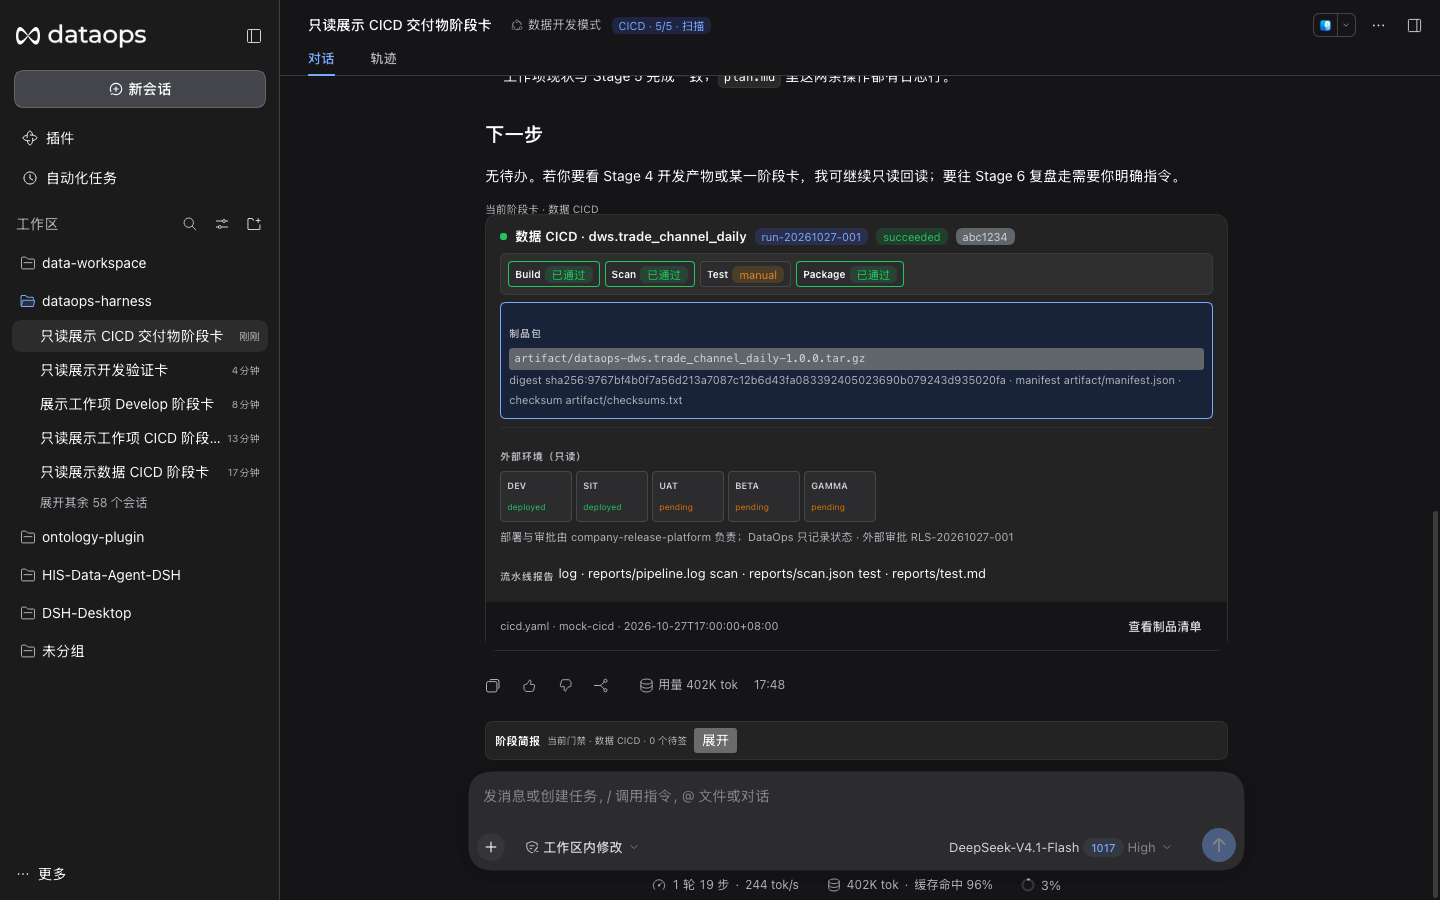
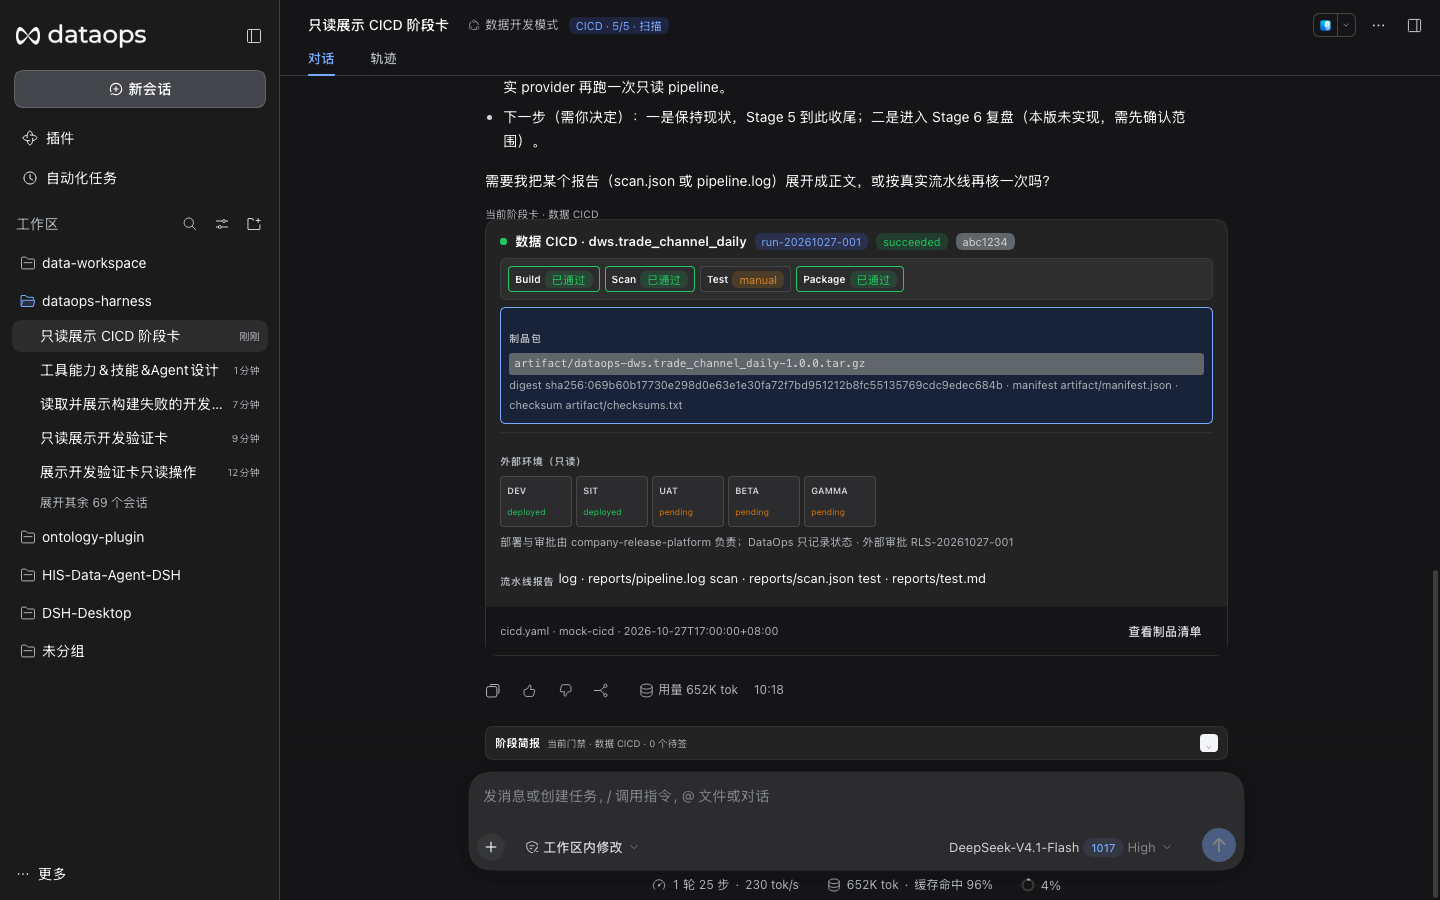
style: replace stage brief expand button with integrated chevron

diff --git a/packages/dataops-client/src/cards.js b/packages/dataops-client/src/cards.js
@@ -91,9 +91,13 @@ export function createDataopsCards(React) {
     '.do-current-card-body .do-card{border:0;border-radius:0;margin:0}',
     '.do-current-card-foot{padding:5px 11px;border-top:1px solid var(--dsw-alias-border-l1,rgba(0,0,0,.06));font-size:9.5px;color:var(--dsw-alias-label-tertiary,#81858c);background:var(--dsw-alias-bg-l2,#f7f8fa);flex:none}',
     '.do-stagebar{width:min(100%,var(--dsh-chat-content-width,920px));margin:6px auto;padding:6px 9px;border:1px solid var(--dsw-alias-border-l1,rgba(0,0,0,.08));border-radius:10px;background:var(--dsw-alias-bg-layer-1,#fff);box-sizing:border-box}',
-    '.do-stagebar-head{display:flex;align-items:center;gap:7px;min-height:18px}',
-    '.do-stagebar-title{font-size:11px;font-weight:600;color:var(--dsw-alias-label-primary,#0f1115)}',
-    '.do-stagebar-hint{font-size:9.5px;color:var(--dsw-alias-label-tertiary,#8b93a2)}',
+    '.do-stagebar-head{display:flex;align-items:center;gap:7px;min-height:20px;width:100%;border:0;background:transparent;padding:0;font:inherit;text-align:left;color:inherit;cursor:pointer}',
+    '.do-stagebar-head:hover .do-stagebar-title{color:var(--dsw-alias-state-business-primary,#4176e6)}',
+    '.do-stagebar-title{font-size:11px;font-weight:600;color:var(--dsw-alias-label-primary,#0f1115);flex:none}',
+    '.do-stagebar-hint{font-size:9.5px;color:var(--dsw-alias-label-tertiary,#8b93a2);flex:1;min-width:0;overflow:hidden;text-overflow:ellipsis;white-space:nowrap}',
+    '.do-stagebar-caret{display:inline-flex;align-items:center;justify-content:center;width:18px;height:18px;flex:none;border-radius:5px;background:var(--dsw-alias-bg-l2,#f4f5f7);color:var(--dsw-alias-label-tertiary,#81858c);font-size:11px;line-height:1;transition:transform .15s ease,background .15s ease}',
+    '.do-stagebar-head:hover .do-stagebar-caret{background:var(--dsw-alias-brand-primary-bg,rgba(77,107,254,.08));color:var(--dsw-alias-state-business-primary,#4176e6)}',
+    '.do-stagebar-caret[data-expanded="true"]{transform:rotate(180deg)}',
     '.do-stagebar-view{margin-left:auto;border:1px solid var(--dsw-alias-border-l2,rgba(0,0,0,.14));border-radius:6px;background:transparent;font-size:9.5px;line-height:20px;padding:0 7px;color:var(--dsw-alias-label-secondary,#61666b);cursor:pointer}',
     '.do-stagebar-stages{display:flex;gap:6px;margin-top:5px;overflow:auto;padding-bottom:1px;justify-content:flex-start}',
     '.do-stagebar-node{flex:0 0 auto;min-width:68px;display:flex;flex-direction:column;align-items:flex-start;gap:1px;border:1px solid transparent;border-radius:6px;background:transparent;padding:2px 7px;cursor:pointer;color:var(--dsw-alias-label-secondary,#61666b)}',

diff --git a/packages/dataops-client/src/brief.js b/packages/dataops-client/src/brief.js
@@ -344,10 +344,16 @@ export function createStageBrief(React, store, contextStore) {
     var subDefs = { scheme: ['数据挖掘', '数据分析', '需求方案设计', '技术方案输出'], cicd: ['扫描', '编译构建', '测试', '发布/部署'] }
     var activeCards = stageCards(payloads, selected)
     return h('div', { className: 'do-stagebar' },
-      h('div', { className: 'do-stagebar-head' },
+      h('button', {
+        type: 'button',
+        className: 'do-stagebar-head',
+        'aria-expanded': expanded ? 'true' : 'false',
+        title: expanded ? '收起阶段简报' : '展开阶段简报',
+        onClick: function () { expandedState[1](!expanded) }
+      },
         h('span', { className: 'do-stagebar-title' }, '阶段简报'),
-        h('span', { className: 'do-stagebar-hint' }, action ? '当前门禁 · ' + action.spec.label + (action.blocking ? ' · 待补证' : ' · ' + action.pending.length + ' 个待签') : '点击展开阶段导航'),
-        h('button', { className: 'do-stagebar-toggle', onClick: function () { expandedState[1](!expanded) } }, expanded ? '收起' : '展开')
+        h('span', { className: 'do-stagebar-hint' }, action ? '当前门禁 · ' + action.spec.label + (action.blocking ? ' · 待补证' : ' · ' + action.pending.length + ' 个待签') : '查看阶段进度与历史卡'),
+        h('span', { className: 'do-stagebar-caret', 'data-expanded': expanded ? 'true' : 'false', 'aria-hidden': 'true' }, '⌄')
       ),
       expanded ? h('div', { className: 'do-stagebar-stages' },
         stageDefs.map(function (def) {

diff --git a/docs/design/architecture-governance.md b/docs/design/architecture-governance.md
@@ -129,3 +129,45 @@ External systems
 - 阶段/kind/gate 只有一张契约表通过测试。
 - `cards.js`/`index.js`/`workitem-store.js` 拆分后单文件职责可一句话说明。
 - 内网 e2e 至少覆盖 US 只读、DataMap、Stage 4 失败回流、Stage 5 制品包。
+
+---
+
+## 8. 处理节奏：现在做 vs 内网后做
+
+### 现在就能做（不依赖内网）
+
+| 项 | 预计 | 产出 |
+|---|---|---|
+| 阶段/gate/kind 共享契约 + contract test | 1–2 迭代 | 消除 `brief.js` / `workitem-store.js` / template / docs 四处重复 |
+| `cards.js` CSS/卡片拆分，`index.js` 拆分 | 2–3 迭代 | 单文件职责可一句话说明；降低改 UI 碰 Host 的风险 |
+| `WorkitemStore` 接口 + 文件 adapter 锁/CAS/审计 | 2–3 迭代 | 可切换 service 而不改 UI/payload |
+| Host 签收服务接口 + mock 身份 | 2–3 迭代 | 不再依赖 Agent 回合/DOM 点击；SSO 后续替换 |
+| UI view model + 阶段简报/失败态/窄屏打磨 | 1–2 迭代 | 弱模型下更自解释；不增加 Agent 负担 |
+| 离线打包/内网安装脚本 + 无公网依赖检查 | 1–2 迭代 | 进入内网可直接部署 |
+| contract/lossless/权限边界测试 | 持续 | 防回归 |
+
+### 需要内网/凭据/接口后才能做
+
+| 项 | 依赖 |
+|---|---|
+| US 真实只读 adapter | EDevOps API/CLI、认证、网络 |
+| DataMap / Lineage / Profile adapter | 各平台 API/权限/字段映射 |
+| Scheduler adapter | 调度平台接口/权限 |
+| Code / Stage 4 真实 build/scan/deploy/test | 代码平台/环境/Committer 权限 |
+| CICD / 制品包 / 外部环境 | 公司 CICD、制品库、发布平台 |
+| SSO/组织角色 | 内网身份系统 |
+| Workitem Service | 内网存储/并发/权限 |
+| 真实脱敏/数据分级 | 内网数据策略 |
+
+### 建议排期
+
+```text
+第 1 轮（本地）：阶段契约 + 签收服务设计 + UI 简报/失败态
+第 2 轮（本地）：卡片/CSS/工具文件拆分 + WorkitemStore 接口
+第 3 轮（本地）：离线打包与内网安装演练
+第 4 轮（内网）：US 只读 → DataMap → Lineage → Profile
+第 5 轮（内网）：Scheduler → Code/Stage4 → CICD/Stage5 → Release 只读
+第 6 轮（内网）：SSO/Workitem Service → 内网 e2e/验收
+```
+
+每轮独立提交；升级上游/接真实 provider 不混在一个 commit。
